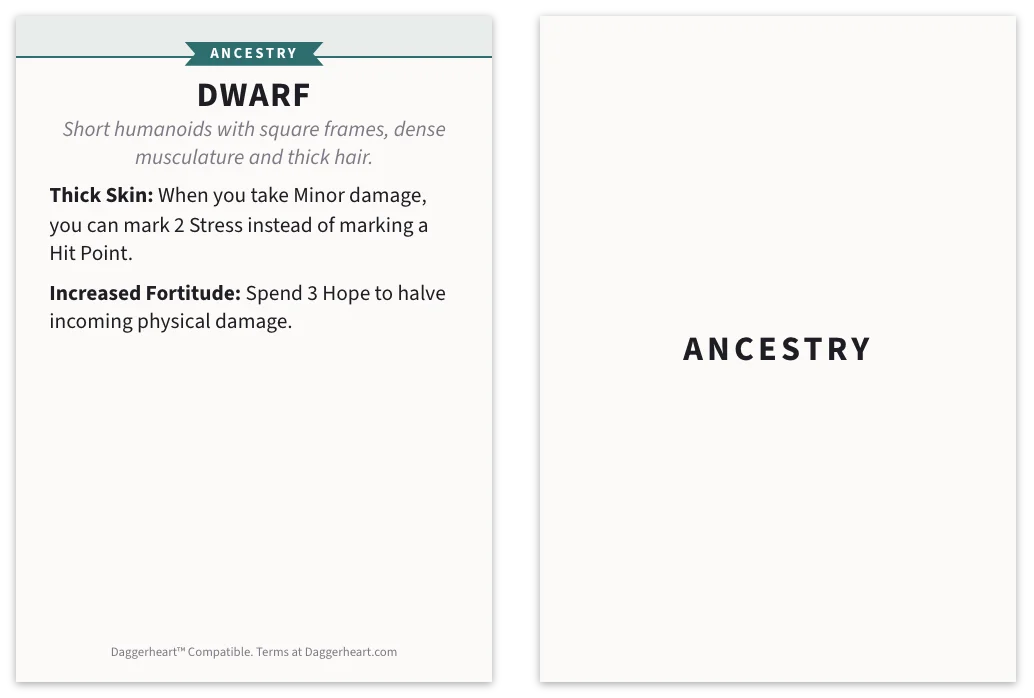
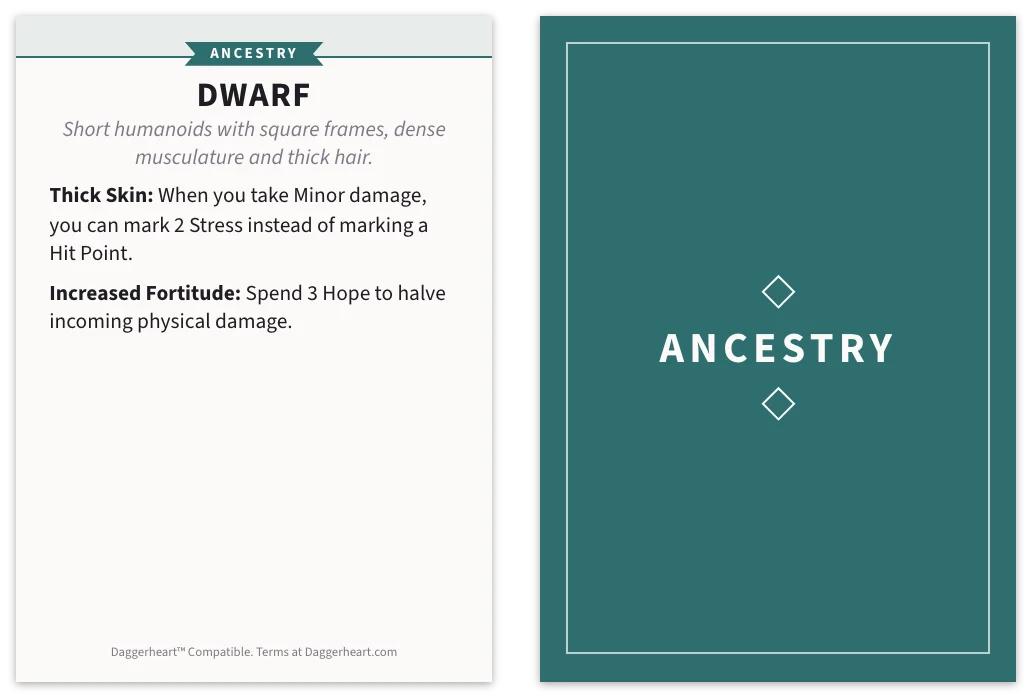
daggerheart: the designed back, the fixture deck and the documentation
The back is the card's colour edge to edge, a fine frame inset in
paper, and between two small diamonds the card's word: the domain on a
domain card, with the card type's caption under it, else the card type.
Flat colour only, so it prints alike through every PDF reader; the
pennant and ribbon shapes and the backs were checked as macOS Preview
renders them.

The fixture deck composes every note of the folder onto four A4 pages;
the deck, document and PDF tests take the system. The README and the
documentation count fourteen systems, and docs/systems.md describes
this one, its card types, languages and terms.

The bundle budget goes from 5086 to 5087 KiB for the back's stylesheet.

diff --git a/resources/systems/daggerheart/styles/daggerheart.css b/resources/systems/daggerheart/styles/daggerheart.css
@@ -302,18 +302,52 @@
 
 /* ── Back ──────────────────────────────────────────────────────── */
 
+/*
+ * The whole face in the card's colour, a fine frame inset in paper, the
+ * word in the middle between two small diamonds. Flat colour only — no
+ * gradient, no shadow — so it prints the same through every PDF reader.
+ */
 .card-root.daggerheart.dh-back {
-  justify-content: center;
-  align-items: center;
+  background: var(--dh-accent);
+  color: var(--dh-paper);
 }
 
-.daggerheart .dh-back-label {
-  width: 80%;
-  font-size: var(--dh-font-title);
+.daggerheart .dh-back-frame {
+  position: absolute;
+  inset: 4% 5.5%;
+  box-sizing: border-box;
+  display: flex;
+  flex-direction: column;
+  align-items: center;
+  justify-content: center;
+  gap: 0.9em;
+  border: 0.12em solid color-mix(in srgb, var(--dh-paper) 70%, transparent);
+}
+
+.daggerheart .dh-back-diamond {
+  width: 5%;
+  aspect-ratio: 1;
+  border: 0.12em solid var(--dh-paper);
+  transform: rotate(45deg);
+}
+
+.daggerheart .dh-back-word {
+  width: 84%;
+  font-size: calc(var(--dh-font-title) * 1.25);
   font-weight: 700;
   text-transform: uppercase;
   letter-spacing: 0.12em;
+  line-height: 1.1;
   text-align: center;
   white-space: nowrap;
   overflow: hidden;
+}
+
+.daggerheart .dh-back-caption {
+  margin-top: -0.5em;
+  font-size: 0.8em;
+  font-weight: 700;
+  text-transform: uppercase;
+  letter-spacing: 0.2em;
+  opacity: 0.85;
 }

diff --git a/tests/fixtures/daggerheart/schleier-der-nacht.back.html b/tests/fixtures/daggerheart/schleier-der-nacht.back.html
@@ -1,3 +1,8 @@
-<div class="card-root card-back daggerheart domain-card dh-back" style="--card-width: 63mm; --card-height: 88mm;" lang="de">
-  <div class="dh-back-label"><span class="text-scalable">Domäne</span></div>
+<div class="card-root card-back daggerheart domain-card dh-back dh-domain-midnight" style="--card-width: 63mm; --card-height: 88mm;" lang="de">
+  <div class="dh-back-frame">
+    <div class="dh-back-diamond"></div>
+    <div class="dh-back-word"><span class="text-scalable">Mitternacht</span></div>
+    <div class="dh-back-caption">Domäne</div>
+    <div class="dh-back-diamond"></div>
+  </div>
 </div>

diff --git a/tests/fixtures/daggerheart/kettenblitz.back.html b/tests/fixtures/daggerheart/kettenblitz.back.html
@@ -1,3 +1,8 @@
-<div class="card-root card-back daggerheart domain-card dh-back" style="--card-width: 63mm; --card-height: 88mm;" lang="de">
-  <div class="dh-back-label"><span class="text-scalable">Domäne</span></div>
+<div class="card-root card-back daggerheart domain-card dh-back dh-domain-arcana" style="--card-width: 63mm; --card-height: 88mm;" lang="de">
+  <div class="dh-back-frame">
+    <div class="dh-back-diamond"></div>
+    <div class="dh-back-word"><span class="text-scalable">Arkana</span></div>
+    <div class="dh-back-caption">Domäne</div>
+    <div class="dh-back-diamond"></div>
+  </div>
 </div>

diff --git a/tests/fixtures/daggerheart/runensiegel.back.html b/tests/fixtures/daggerheart/runensiegel.back.html
@@ -1,3 +1,8 @@
-<div class="card-root card-back daggerheart domain-card dh-back" style="--card-width: 63mm; --card-height: 88mm;" lang="de">
-  <div class="dh-back-label"><span class="text-scalable">Domäne</span></div>
+<div class="card-root card-back daggerheart domain-card dh-back dh-domain-arcana" style="--card-width: 63mm; --card-height: 88mm;" lang="de">
+  <div class="dh-back-frame">
+    <div class="dh-back-diamond"></div>
+    <div class="dh-back-word"><span class="text-scalable">Arkana</span></div>
+    <div class="dh-back-caption">Domäne</div>
+    <div class="dh-back-diamond"></div>
+  </div>
 </div>

diff --git a/tests/fixtures/daggerheart/cinder-grasp.back.html b/tests/fixtures/daggerheart/cinder-grasp.back.html
@@ -1,3 +1,8 @@
-<div class="card-root card-back daggerheart domain-card dh-back" style="--card-width: 63mm; --card-height: 88mm;" lang="en">
-  <div class="dh-back-label"><span class="text-scalable">Domain</span></div>
+<div class="card-root card-back daggerheart domain-card dh-back dh-domain-arcana" style="--card-width: 63mm; --card-height: 88mm;" lang="en">
+  <div class="dh-back-frame">
+    <div class="dh-back-diamond"></div>
+    <div class="dh-back-word"><span class="text-scalable">Arcana</span></div>
+    <div class="dh-back-caption">Domain</div>
+    <div class="dh-back-diamond"></div>
+  </div>
 </div>

diff --git a/tests/fixtures/daggerheart/rune-ward.back.html b/tests/fixtures/daggerheart/rune-ward.back.html
@@ -1,3 +1,8 @@
-<div class="card-root card-back daggerheart domain-card dh-back" style="--card-width: 63mm; --card-height: 88mm;" lang="en">
-  <div class="dh-back-label"><span class="text-scalable">Domain</span></div>
+<div class="card-root card-back daggerheart domain-card dh-back dh-domain-arcana" style="--card-width: 63mm; --card-height: 88mm;" lang="en">
+  <div class="dh-back-frame">
+    <div class="dh-back-diamond"></div>
+    <div class="dh-back-word"><span class="text-scalable">Arcana</span></div>
+    <div class="dh-back-caption">Domain</div>
+    <div class="dh-back-diamond"></div>
+  </div>
 </div>

diff --git a/tests/fixtures/daggerheart/book-of-ava.back.html b/tests/fixtures/daggerheart/book-of-ava.back.html
@@ -1,3 +1,8 @@
-<div class="card-root card-back daggerheart domain-card dh-back" style="--card-width: 63mm; --card-height: 88mm;" lang="en">
-  <div class="dh-back-label"><span class="text-scalable">Domain</span></div>
+<div class="card-root card-back daggerheart domain-card dh-back dh-domain-codex" style="--card-width: 63mm; --card-height: 88mm;" lang="en">
+  <div class="dh-back-frame">
+    <div class="dh-back-diamond"></div>
+    <div class="dh-back-word"><span class="text-scalable">Codex</span></div>
+    <div class="dh-back-caption">Domain</div>
+    <div class="dh-back-diamond"></div>
+  </div>
 </div>

diff --git a/tests/fixtures/daggerheart/not-good-enough.back.html b/tests/fixtures/daggerheart/not-good-enough.back.html
@@ -1,3 +1,8 @@
-<div class="card-root card-back daggerheart domain-card dh-back" style="--card-width: 63mm; --card-height: 88mm;" lang="en">
-  <div class="dh-back-label"><span class="text-scalable">Domain</span></div>
+<div class="card-root card-back daggerheart domain-card dh-back dh-domain-blade" style="--card-width: 63mm; --card-height: 88mm;" lang="en">
+  <div class="dh-back-frame">
+    <div class="dh-back-diamond"></div>
+    <div class="dh-back-word"><span class="text-scalable">Blade</span></div>
+    <div class="dh-back-caption">Domain</div>
+    <div class="dh-back-diamond"></div>
+  </div>
 </div>

diff --git a/tests/fixtures/daggerheart/von-den-wassern.back.html b/tests/fixtures/daggerheart/von-den-wassern.back.html
@@ -1,3 +1,7 @@
-<div class="card-root card-back daggerheart community-card dh-back" style="--card-width: 63mm; --card-height: 88mm;" lang="de">
-  <div class="dh-back-label"><span class="text-scalable">Gemeinschaft</span></div>
+<div class="card-root card-back daggerheart community-card dh-back dh-domain-none" style="--card-width: 63mm; --card-height: 88mm;" lang="de">
+  <div class="dh-back-frame">
+    <div class="dh-back-diamond"></div>
+    <div class="dh-back-word"><span class="text-scalable">Gemeinschaft</span></div>
+    <div class="dh-back-diamond"></div>
+  </div>
 </div>

diff --git a/tests/fixtures/daggerheart/seaborne.back.html b/tests/fixtures/daggerheart/seaborne.back.html
@@ -1,3 +1,7 @@
-<div class="card-root card-back daggerheart community-card dh-back" style="--card-width: 63mm; --card-height: 88mm;" lang="en">
-  <div class="dh-back-label"><span class="text-scalable">Community</span></div>
+<div class="card-root card-back daggerheart community-card dh-back dh-domain-none" style="--card-width: 63mm; --card-height: 88mm;" lang="en">
+  <div class="dh-back-frame">
+    <div class="dh-back-diamond"></div>
+    <div class="dh-back-word"><span class="text-scalable">Community</span></div>
+    <div class="dh-back-diamond"></div>
+  </div>
 </div>

diff --git a/tests/fixtures/daggerheart/zwerg.back.html b/tests/fixtures/daggerheart/zwerg.back.html
@@ -1,3 +1,7 @@
-<div class="card-root card-back daggerheart ancestry-card dh-back" style="--card-width: 63mm; --card-height: 88mm;" lang="de">
-  <div class="dh-back-label"><span class="text-scalable">Abstammung</span></div>
+<div class="card-root card-back daggerheart ancestry-card dh-back dh-domain-none" style="--card-width: 63mm; --card-height: 88mm;" lang="de">
+  <div class="dh-back-frame">
+    <div class="dh-back-diamond"></div>
+    <div class="dh-back-word"><span class="text-scalable">Abstammung</span></div>
+    <div class="dh-back-diamond"></div>
+  </div>
 </div>

diff --git a/tests/fixtures/daggerheart/minnesang.back.html b/tests/fixtures/daggerheart/minnesang.back.html
@@ -1,3 +1,7 @@
-<div class="card-root card-back daggerheart subclass-card dh-back" style="--card-width: 63mm; --card-height: 88mm;" lang="de">
-  <div class="dh-back-label"><span class="text-scalable">Subklasse</span></div>
+<div class="card-root card-back daggerheart subclass-card dh-back dh-domain-none" style="--card-width: 63mm; --card-height: 88mm;" lang="de">
+  <div class="dh-back-frame">
+    <div class="dh-back-diamond"></div>
+    <div class="dh-back-word"><span class="text-scalable">Subklasse</span></div>
+    <div class="dh-back-diamond"></div>
+  </div>
 </div>
